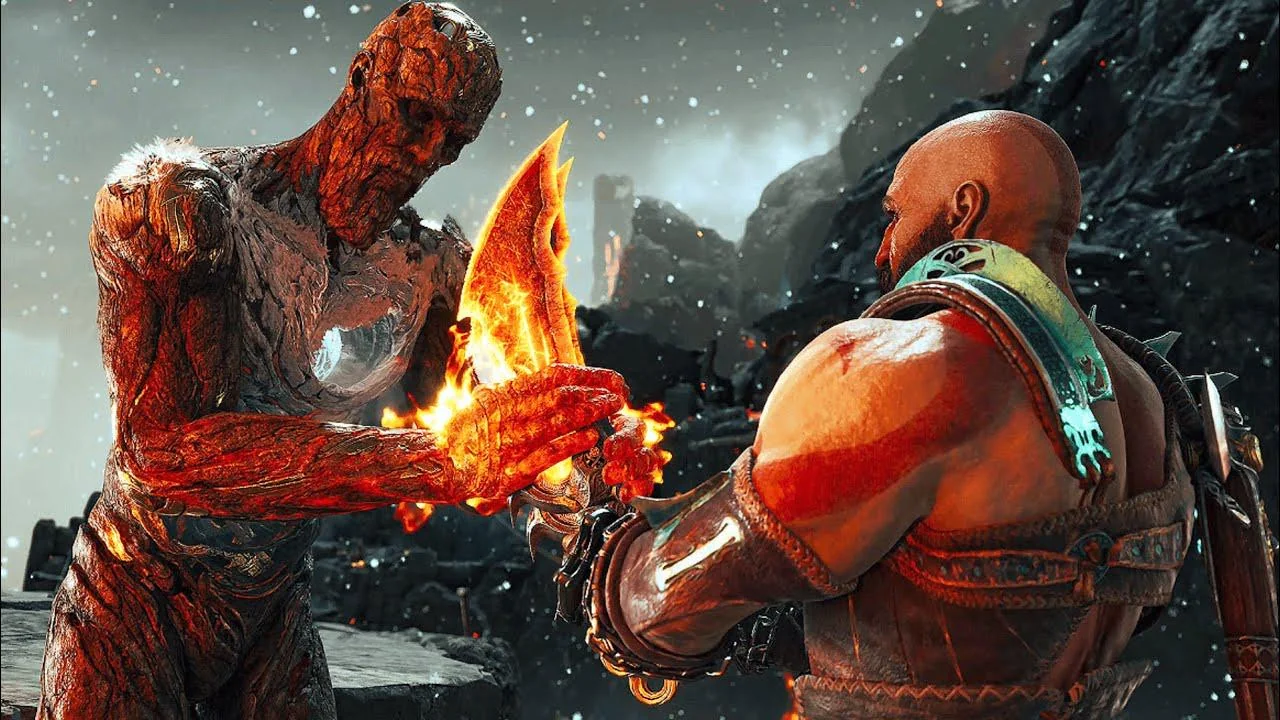
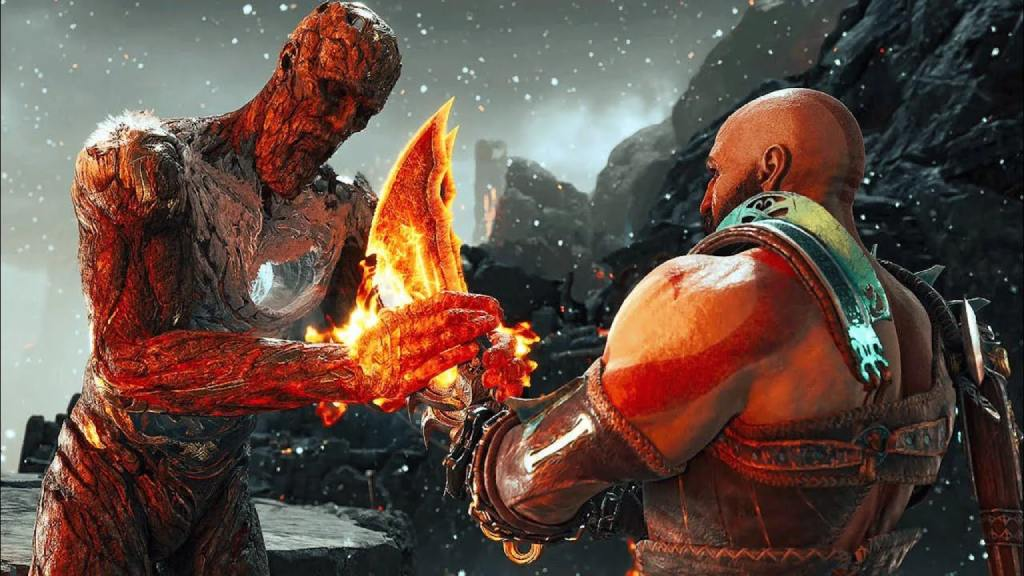
Fix: Imagenes recortadas y optimizadas. Rutas corregidas

Changed region(s): [[0.5, 0.9375, 0.5312, 0.9688]]

diff --git a/js/data-galeria.js b/js/data-galeria.js
@@ -12,8 +12,9 @@
      juego       — de qué entrega es la escena. Va como rótulo del pie.
      descripcion — una o dos líneas de contexto, abajo del título.
 
-   El archivo tiene que venir en la proporción de su formato o va a
-   salir recortado. Las medidas están en assets/img/LEEME-galeria.txt.
+   Los títulos y las descripciones describen LO QUE SE VE en cada foto,
+   no el tema en abstracto. Si se reemplaza una imagen, hay que releer
+   el texto: varios mencionan quién aparece en el encuadre.
    =========================================================== */
 
 const GALERIA = [
@@ -40,7 +41,7 @@ const GALERIA = [
     titulo: "El Lago de los Nueve",
     saga: "nordica",
     formato: "ancha",
-    imagen: "",
+    imagen: "assets/img/lago-de-los-nueve.jpg",
     juego: "God of War (2018)",
     descripcion: "La masa de agua con nueve puntas que ordena todo Midgard. En el centro está el templo de Týr, la sala de viaje entre los reinos."
   },
@@ -49,7 +50,7 @@ const GALERIA = [
     titulo: "La Caja de Pandora",
     saga: "griega",
     formato: "cuadrada",
-    imagen: "",
+    imagen: "assets/img/la-caja-de-pandora.jpg",
     juego: "God of War (2005)",
     descripcion: "Donde los dioses encerraron los males del mundo. Lo que no contaron es que también guardaron adentro la Esperanza."
   },
@@ -58,7 +59,7 @@ const GALERIA = [
     titulo: "Atreus con el arco Talón de Alba",
     saga: "nordica",
     formato: "alta",
-    imagen: "assets/img/atreus.jpg",
+    imagen: "assets/img/atreus-arco.jpg",
     juego: "God of War (2018)",
     descripcion: "El arco es lo primero que Faye le dejó a Atreus, y durante buena parte del viaje su única forma de pelear."
   },
@@ -67,7 +68,7 @@ const GALERIA = [
     titulo: "Las Hermanas del Destino",
     saga: "griega",
     formato: "ancha",
-    imagen: "",
+    imagen: "assets/img/las-hermanas-del-destino.jpg",
     juego: "God of War II (2007)",
     descripcion: "Láquesis, Átropos y Cloto tejen el hilo de todo lo que existe. Ni Zeus puede contradecirlas, y por eso Kratos va a buscarlas."
   },
@@ -76,7 +77,7 @@ const GALERIA = [
     titulo: "El Árbol del Mundo",
     saga: "nordica",
     formato: "alta",
-    imagen: "",
+    imagen: "assets/img/yggdrasil.jpg",
     juego: "God of War (2018)",
     descripcion: "El fresno que sostiene los Nueve Reinos. Desde el templo de Týr, en el centro del Lago de los Nueve, se viaja por sus ramas."
   },
@@ -94,7 +95,7 @@ const GALERIA = [
     titulo: "La forja de Sindri y Brok",
     saga: "nordica",
     formato: "cuadrada",
-    imagen: "",
+    imagen: "assets/img/sindri-y-brok-forja.jpg",
     juego: "God of War (2018)",
     descripcion: "De ahí salieron el hacha Leviatán y el martillo Mjölnir. Los dos hermanos cargan con haber forjado las dos cosas."
   },
@@ -112,7 +113,7 @@ const GALERIA = [
     titulo: "Los murales de Jötunheim",
     saga: "nordica",
     formato: "ancha",
-    imagen: "",
+    imagen: "assets/img/los-murales.jpg",
     juego: "God of War (2018)",
     descripcion: "Los gigantes no dejaron ejércitos: dejaron paredes pintadas con todo lo que iba a pasar, incluido el viaje de Kratos y Atreus."
   },
@@ -127,39 +128,39 @@ const GALERIA = [
   },
   {
     id: "freya-vanaheim",
-    titulo: "Freya en el bosque de Vanaheim",
+    titulo: "Freya en el bosque",
     saga: "nordica",
     formato: "alta",
-    imagen: "assets/img/freya.jpg",
-    juego: "God of War Ragnarök (2022)",
-    descripcion: "Reina de los vanir, desterrada a Midgard por Odín. Vanaheim es el reino del que salió y al que termina volviendo."
+    imagen: "assets/img/freya-bosque.jpg",
+    juego: "God of War (2018)",
+    descripcion: "Antes de que se sepa quién es, Freya es la bruja del bosque que cura a Atreus. Reina de los vanir, desterrada a Midgard por Odín y sin poder levantar un arma."
   },
   {
     id: "kratos-blades",
     titulo: "Kratos y las Espadas del Caos",
     saga: "griega",
     formato: "ancha",
-    imagen: "",
+    imagen: "assets/img/kratos-espadas.jpg",
     juego: "God of War (2005)",
-    descripcion: "Las armas que le dio Ares, encadenadas a los antebrazos. Kratos las escondió en el fondo de su casa en Midgard y tuvo que volver a buscarlas."
+    descripcion: "Las armas que le dio Ares, encadenadas a los antebrazos para siempre. Kratos las enterró en el fondo de su casa en Midgard y tuvo que volver a desenterrarlas."
   },
   {
-    id: "odin-cuervos",
-    titulo: "Odín y sus cuervos",
+    id: "odin-gungnir",
+    titulo: "Odín y Gungnir",
     saga: "nordica",
     formato: "alta",
-    imagen: "",
+    imagen: "assets/img/odin-lanza.jpg",
     juego: "God of War Ragnarök (2022)",
-    descripcion: "El Padre de Todos gobierna con información antes que a los gritos. Huginn y Muninn son cómo se la consigue."
+    descripcion: "El Padre de Todos con la lanza que no falla un tiro. El parche tapa el ojo que se sacó él mismo: todo lo que hizo, incluso eso, fue para averiguar qué hay del otro lado de la muerte."
   },
   {
     id: "esparta-ejercito",
     titulo: "El ejército espartano",
     saga: "griega",
     formato: "ancha",
-    imagen: "",
+    imagen: "assets/img/ejercito-espartano.jpg",
     juego: "God of War: Ascension (2013)",
-    descripcion: "La ciudad que crió a Kratos y lo hizo general. En Esparta los chicos entraban al entrenamiento a los siete años."
+    descripcion: "La ciudad que crió a Kratos y lo hizo general. En Esparta los chicos entraban al entrenamiento a los siete años y a los que no servían se los descartaba."
   },
   {
     id: "thor-mjolnir",
@@ -171,30 +172,21 @@ const GALERIA = [
     descripcion: "El hijo mayor de Odín con el martillo que forjaron Sindri y Brok: el arma con la que Asgard vació Jötunheim."
   },
   {
-    id: "elysium-caliope",
-    titulo: "Elysium",
-    saga: "griega",
-    formato: "cuadrada",
-    imagen: "",
-    juego: "Chains of Olympus (2008)",
-    descripcion: "El campo de los muertos que merecieron descanso. Ahí está Calíope, y ahí Kratos tiene que elegir entre su hija y el mundo."
-  },
-  {
     id: "surtr-muspelheim",
-    titulo: "Surtr en Muspelheim",
+    titulo: "Kratos y Surtr en Muspelheim",
     saga: "nordica",
     formato: "ancha",
-    imagen: "",
+    imagen: "assets/img/surtr.jpg",
     juego: "God of War Ragnarök (2022)",
-    descripcion: "El gigante de fuego del reino de la lava. La profecía dice que va a arder y que su fuego va a terminar con Asgard."
+    descripcion: "Kratos fue hasta el reino del fuego a pedirle al gigante que se convirtiera en Ragnarök. Surtr llevaba siglos forjando la hoja encendida que hace falta para eso: lo que había que convencerlo de hacer no era pelear, era arder."
   },
   {
-    id: "zeus-rayo",
-    titulo: "Zeus y el rayo",
+    id: "zeus-kratos",
+    titulo: "Zeus, el Padre de los dioses",
     saga: "griega",
     formato: "alta",
-    imagen: "",
+    imagen: "assets/img/zeusG.jpg",
     juego: "God of War III (2010)",
-    descripcion: "Rey del Olimpo y padre de Kratos. Llegó al trono matando a Cronos y pasó el reinado con miedo a que le hicieran lo mismo."
+    descripcion: "El rey del Olimpo ensangrentado y todavía de pie, con los brazos abiertos en la última pelea de la saga griega. Subió al trono matando a su propio padre y pasó el reinado entero temiendo que le hicieran lo mismo: ese miedo fue lo que terminó fabricándole el hijo que lo derribó. Abajo del todo, de espaldas y a sus pies, está ese hijo."
   }
 ];

diff --git a/css/variables.css b/css/variables.css
@@ -44,8 +44,11 @@
 
   /* Fondo contextual de la portada, uno por saga. Se declara acá y no
      en el CSS de la portada porque es parte de la identidad del tema,
-     igual que la paleta: cambia con data-saga y nada más. */
-  --fondo-portada: url("../assets/img/yggdrasil.jpg");
+     igual que la paleta: cambia con data-saga y nada más.
+
+     Ojo: yggdrasil-home.jpg es apaisado y pensado para esto. El
+     yggdrasil.jpg de la galería es vertical y acá quedaría estirado. */
+  --fondo-portada: url("../assets/img/yggdrasil-home.jpg");
 
   --ancho-max: 1160px;
   --alto-cabecera: 68px;   /* lo usan los paneles pegajosos como tope */
@@ -69,7 +72,11 @@
 
 /* --- Saga griega: ceniza, ocre, sangre --- */
 [data-saga="griega"] {
-  --fondo-portada: url("../assets/img/fondo-espadas.jpg");
+  /* Misma foto que la pieza "Kratos y las Espadas del Caos" de la
+     galería. Se repite a propósito: es la única apaisada 16:9 de la
+     saga griega y al 22% de opacidad no se lee como una foto sino
+     como una silueta, así que no compite con la de la galería. */
+  --fondo-portada: url("../assets/img/kratos-espadas.jpg");
   --fondo:          #120e0b;
   --superficie:     #1c1611;
   --superficie-alta:#261e17;

diff --git a/js/render.js b/js/render.js
@@ -73,11 +73,11 @@ function tarjetaPersonaje(p) {
    personajes pero se ve distinta (rótulo "Colección" en vez de saga)
    y no lleva a personaje.html sino a la página que agrupa a las
    integrantes. Hoy solo se usa para el consejo de las valquirias. */
-function tarjetaColeccion(destino, nombre, resumen) {
+function tarjetaColeccion(destino, nombre, resumen, imagen) {
   return `
     <li>
       <a class="tarjeta tarjeta--coleccion" href="${escapar(destino)}">
-        ${marcoImagen("", nombre)}
+        ${marcoImagen(imagen || "", nombre)}
         <div class="tarjeta__cuerpo">
           <p class="rotulo">Colección</p>
           <h3>${escapar(nombre)}</h3>

diff --git a/css/main.css b/css/main.css
@@ -880,6 +880,11 @@
   width: 100%;
   height: 100%;
   object-fit: cover;
+  /* Varios retratos vienen más altos que el 4:5 del mosaico y hay que
+     recortarlos. Corriendo el encuadre hacia arriba se conserva la
+     cara en vez de los pies. En las apaisadas no cambia nada: entran
+     justas y no se recorta a lo alto. */
+  object-position: center 35%;
   display: block;
 }
 

diff --git a/js/main.js b/js/main.js
@@ -264,7 +264,8 @@ function actualizarListadoPersonajes() {
     partes.push(tarjetaColeccion(
       "valquirias.html",
       "Las Valquirias",
-      "Las nueve integrantes del consejo. Recorrelas de a una para desbloquear a Sigrún."
+      "Las nueve integrantes del consejo. Recorrelas de a una para desbloquear a Sigrún.",
+      "assets/img/valquirias.jpg"
     ));
   }
 

diff --git a/js/data-lugares.js b/js/data-lugares.js
@@ -65,7 +65,7 @@ Es también el reino de Sindri y Brok, y el lugar donde el viaje pasa de ser una
     nombre: "Vanaheim",
     region: "nordica",
     tipo: "Reino",
-    imagen: "",
+    imagen: "assets/img/vanaheim.jpg",
     resumen: "Selva de los vanir, sellada por Odín durante siglos.",
     datos: {},
     personajes: ["freya"],

diff --git a/CLAUDE.md b/CLAUDE.md
@@ -270,8 +270,17 @@ Las secciones llevan `scroll-margin-top` del alto de la cabecera. Sin eso,
 cualquier salto a un ancla deja el título tapado abajo de la barra fija.
 
 La portada lleva una **imagen de fondo contextual** al tema, en el token
-`--fondo-portada`: el Árbol del Mundo para la nórdica, las Espadas del Caos
-para la griega. Va como `::before` y no como fondo de `.portada` para poder
+`--fondo-portada`: el Árbol del Mundo para la nórdica y Kratos con las Espadas
+del Caos para la griega. Las dos son 16:9, que es lo que pide el `cover` de la
+portada.
+
+La griega es el mismo archivo que la pieza `kratos-blades` de la galería. Se
+repite a propósito: es la única apaisada de la saga griega y al 22% de opacidad
+no se lee como una foto sino como una silueta, así que no compite.
+
+Ojo con los dos Yggdrasil: `yggdrasil-home.jpg` es apaisado y va acá;
+`yggdrasil.jpg` es vertical y es la pieza de la galería. No son
+intercambiables. Va como `::before` y no como fondo de `.portada` para poder
 darle opacidad propia sin arrastrar al contenido, con un degradado encima que
 apaga los bordes contra la cabecera y la sección siguiente.
 
@@ -323,7 +332,7 @@ Requisitos:
   Una sola función `estaBloqueado(id)` usada en los dos lugares.
 
 ### Galería
-Mosaico **asimétrico** de 20 piezas, con lightbox y filtro por saga. El pie de
+Mosaico **asimétrico** de 19 piezas, con lightbox y filtro por saga. El pie de
 cada foto dice de qué juego es la escena y la ubica en una o dos líneas.
 
 Lo asimétrico sale del campo `formato` de cada pieza: `ancha` (16:9, ocupa dos
@@ -336,6 +345,15 @@ están en `assets/img/LEEME-galeria.txt`.
 
 El lightbox toma la proporción de la pieza desde el JS. Con un marco 3/4 fijo,
 una foto apaisada quedaba con dos franjas negras a los costados.
+
+**Los títulos y las descripciones cuentan lo que se ve en cada foto**, no el
+tema en abstracto: varios nombran quién aparece en el encuadre. Si se reemplaza
+una imagen hay que releer su texto. `assets/img/LEEME-galeria.txt` lista cuáles
+están atadas a su archivo.
+
+Las fotos de la galería llevan `object-position: center 35%`. Varios retratos
+vienen más altos que el 4:5 del mosaico y hay que recortarlos: corriendo el
+encuadre hacia arriba se conserva la cara en vez de los pies.
 
 ### Mapa del sitio
 
@@ -437,15 +455,17 @@ Un commit por unidad de trabajo terminada, no uno por sesión.
 El sitio está **terminado y probado**. Las doce páginas funcionan, las 54 fichas
 tienen texto, y no queda ningún `[completar]` en los datos.
 
-Lo único pendiente son imágenes:
+**Todas las imágenes están cargadas.** Las 73 rutas de los `data-*.js` apuntan
+a un archivo que existe: ningún campo `imagen` quedó vacío y ninguna ruta está
+rota.
 
-- [ ] Las 12 de la galería que faltan. La lista, con formato y medidas, está en
-      `assets/img/LEEME-galeria.txt`.
-- [ ] `vanaheim.jpg`, el único de los 15 lugares sin foto.
-- [ ] `yggdrasil.jpg` y `fondo-espadas.jpg`, los fondos de portada. Hasta que
-      estén, la portada se ve lisa y la consola tira dos 404.
+No queda nada pendiente: los dos fondos de portada también están puestos.
 
-Mientras el campo `imagen` esté vacío, el marco rayado muestra qué archivo
+Un detalle anotado por si algún día molesta: `ejercito-espartano.jpg` es por
+dentro un WebP con extensión `.jpg`. Funciona porque los navegadores detectan
+el formato por el contenido, no por el nombre.
+
+Mientras un campo `imagen` esté vacío, el marco rayado muestra qué archivo
 falta. Es a propósito: sirve de lista de pendientes visible.
 
 ### Cómo se probó
